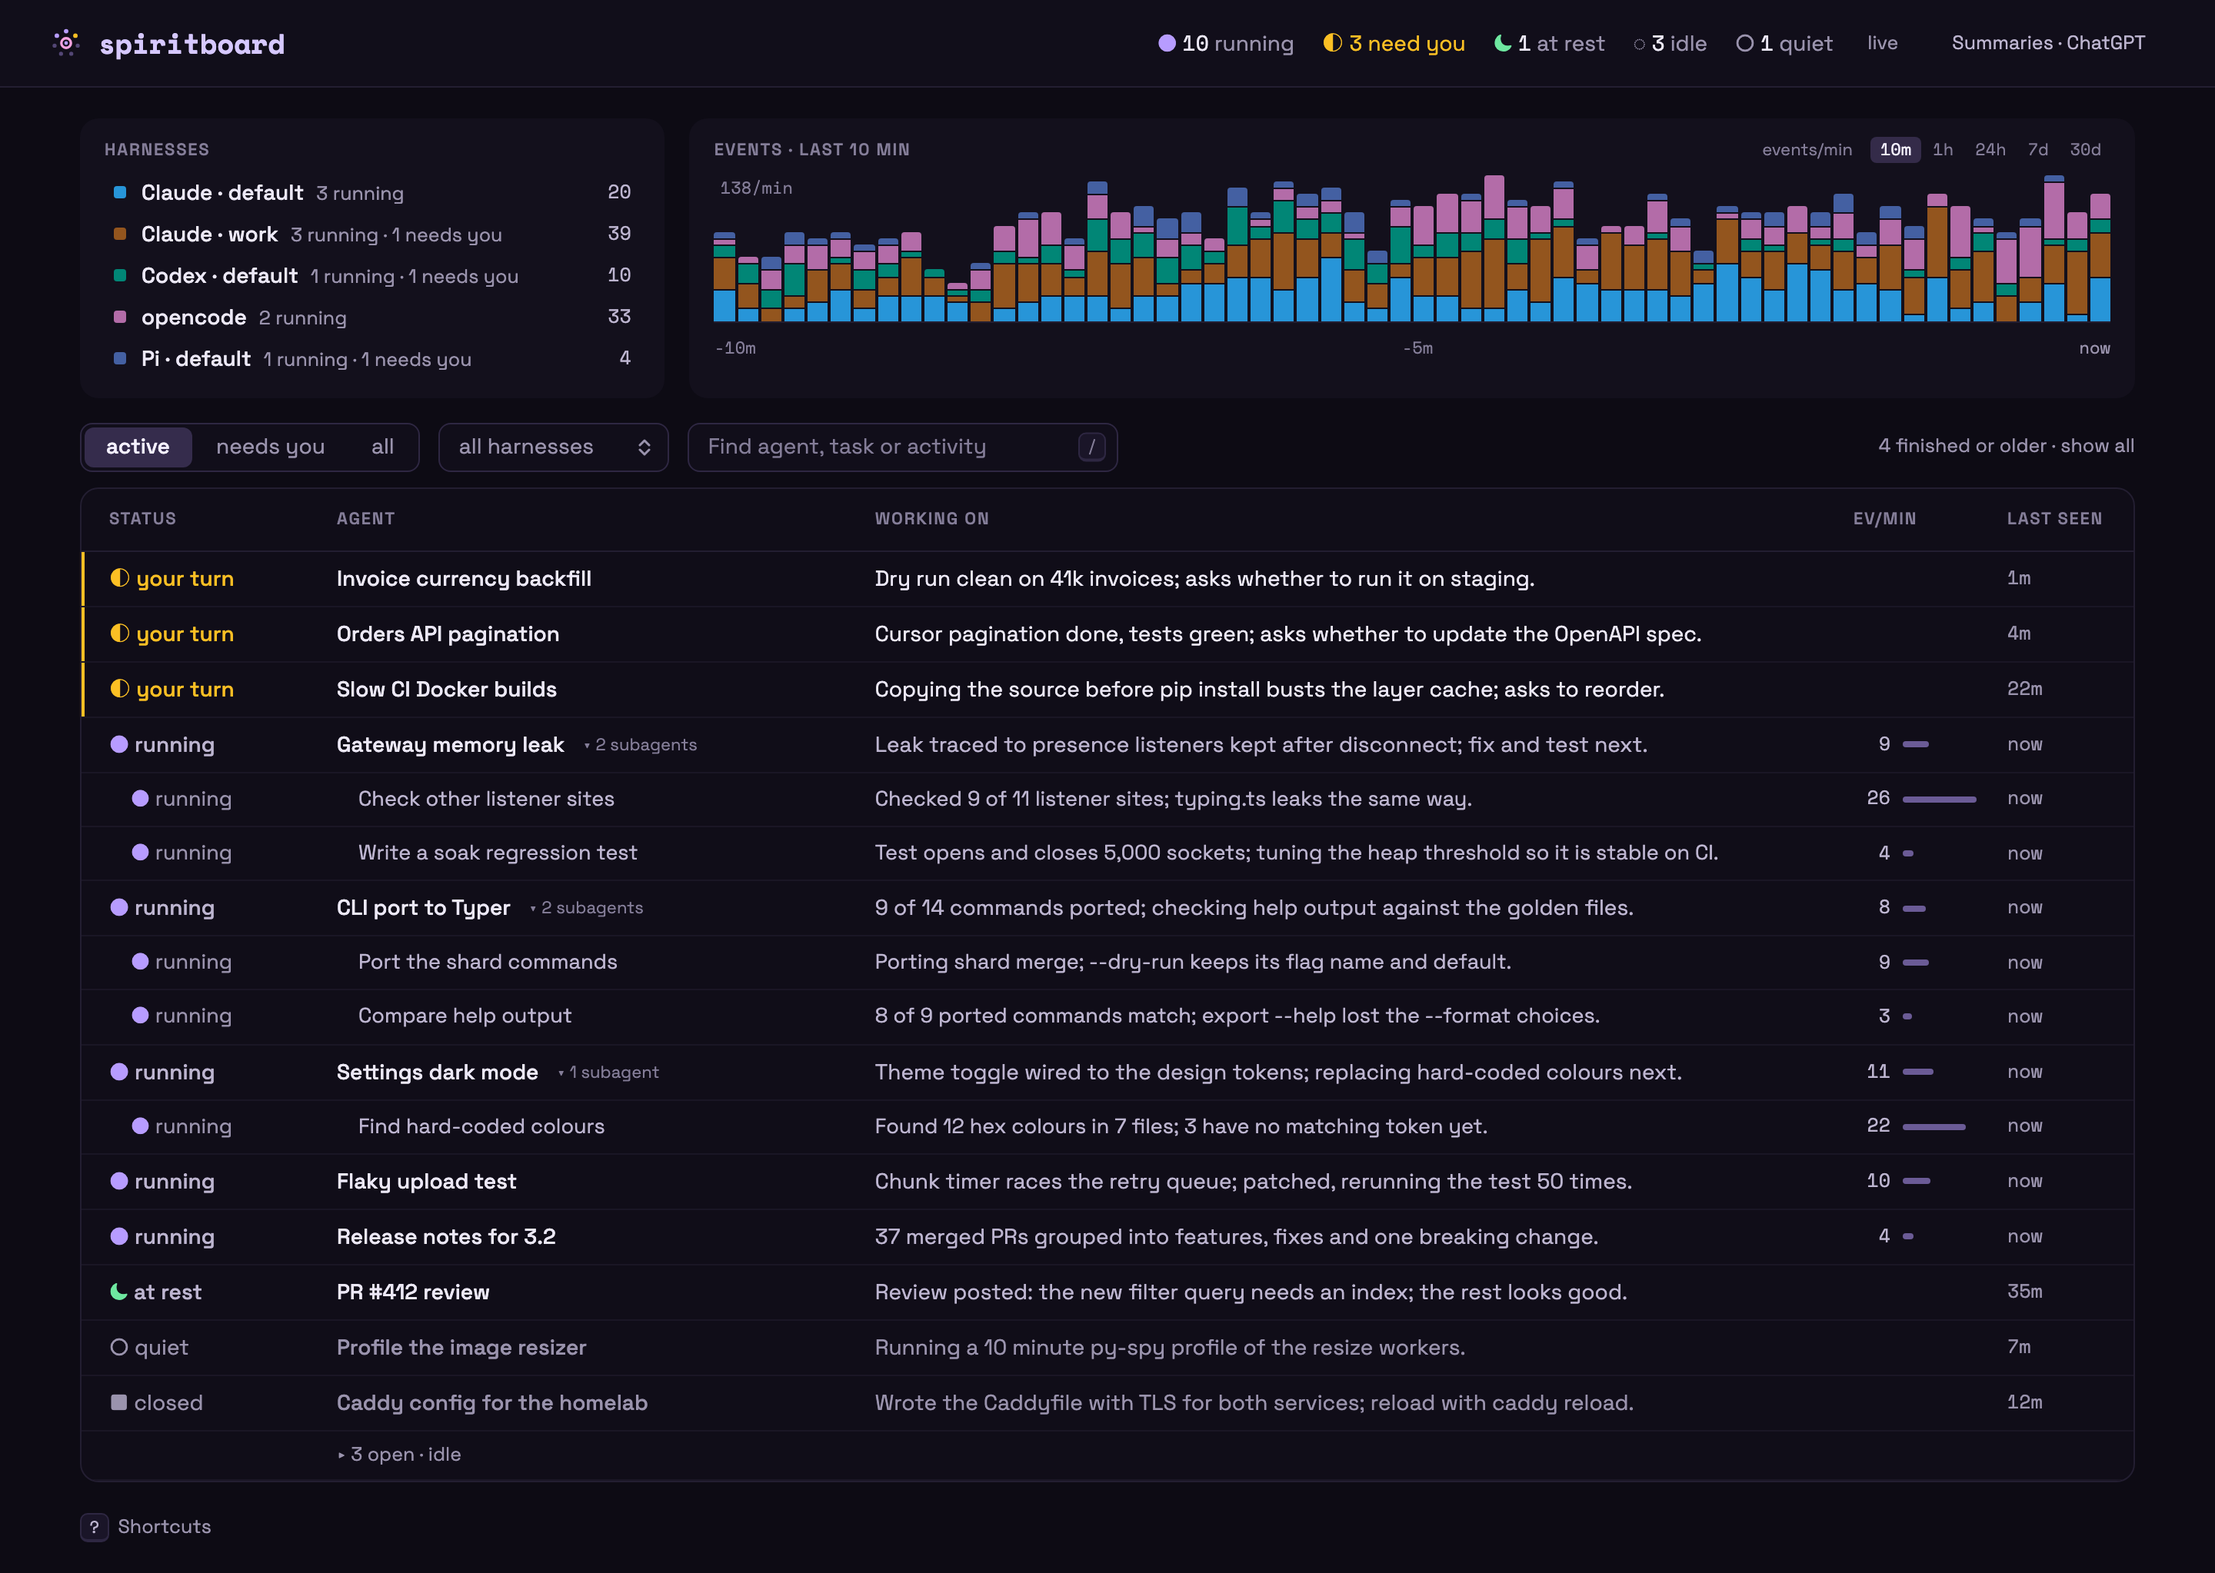
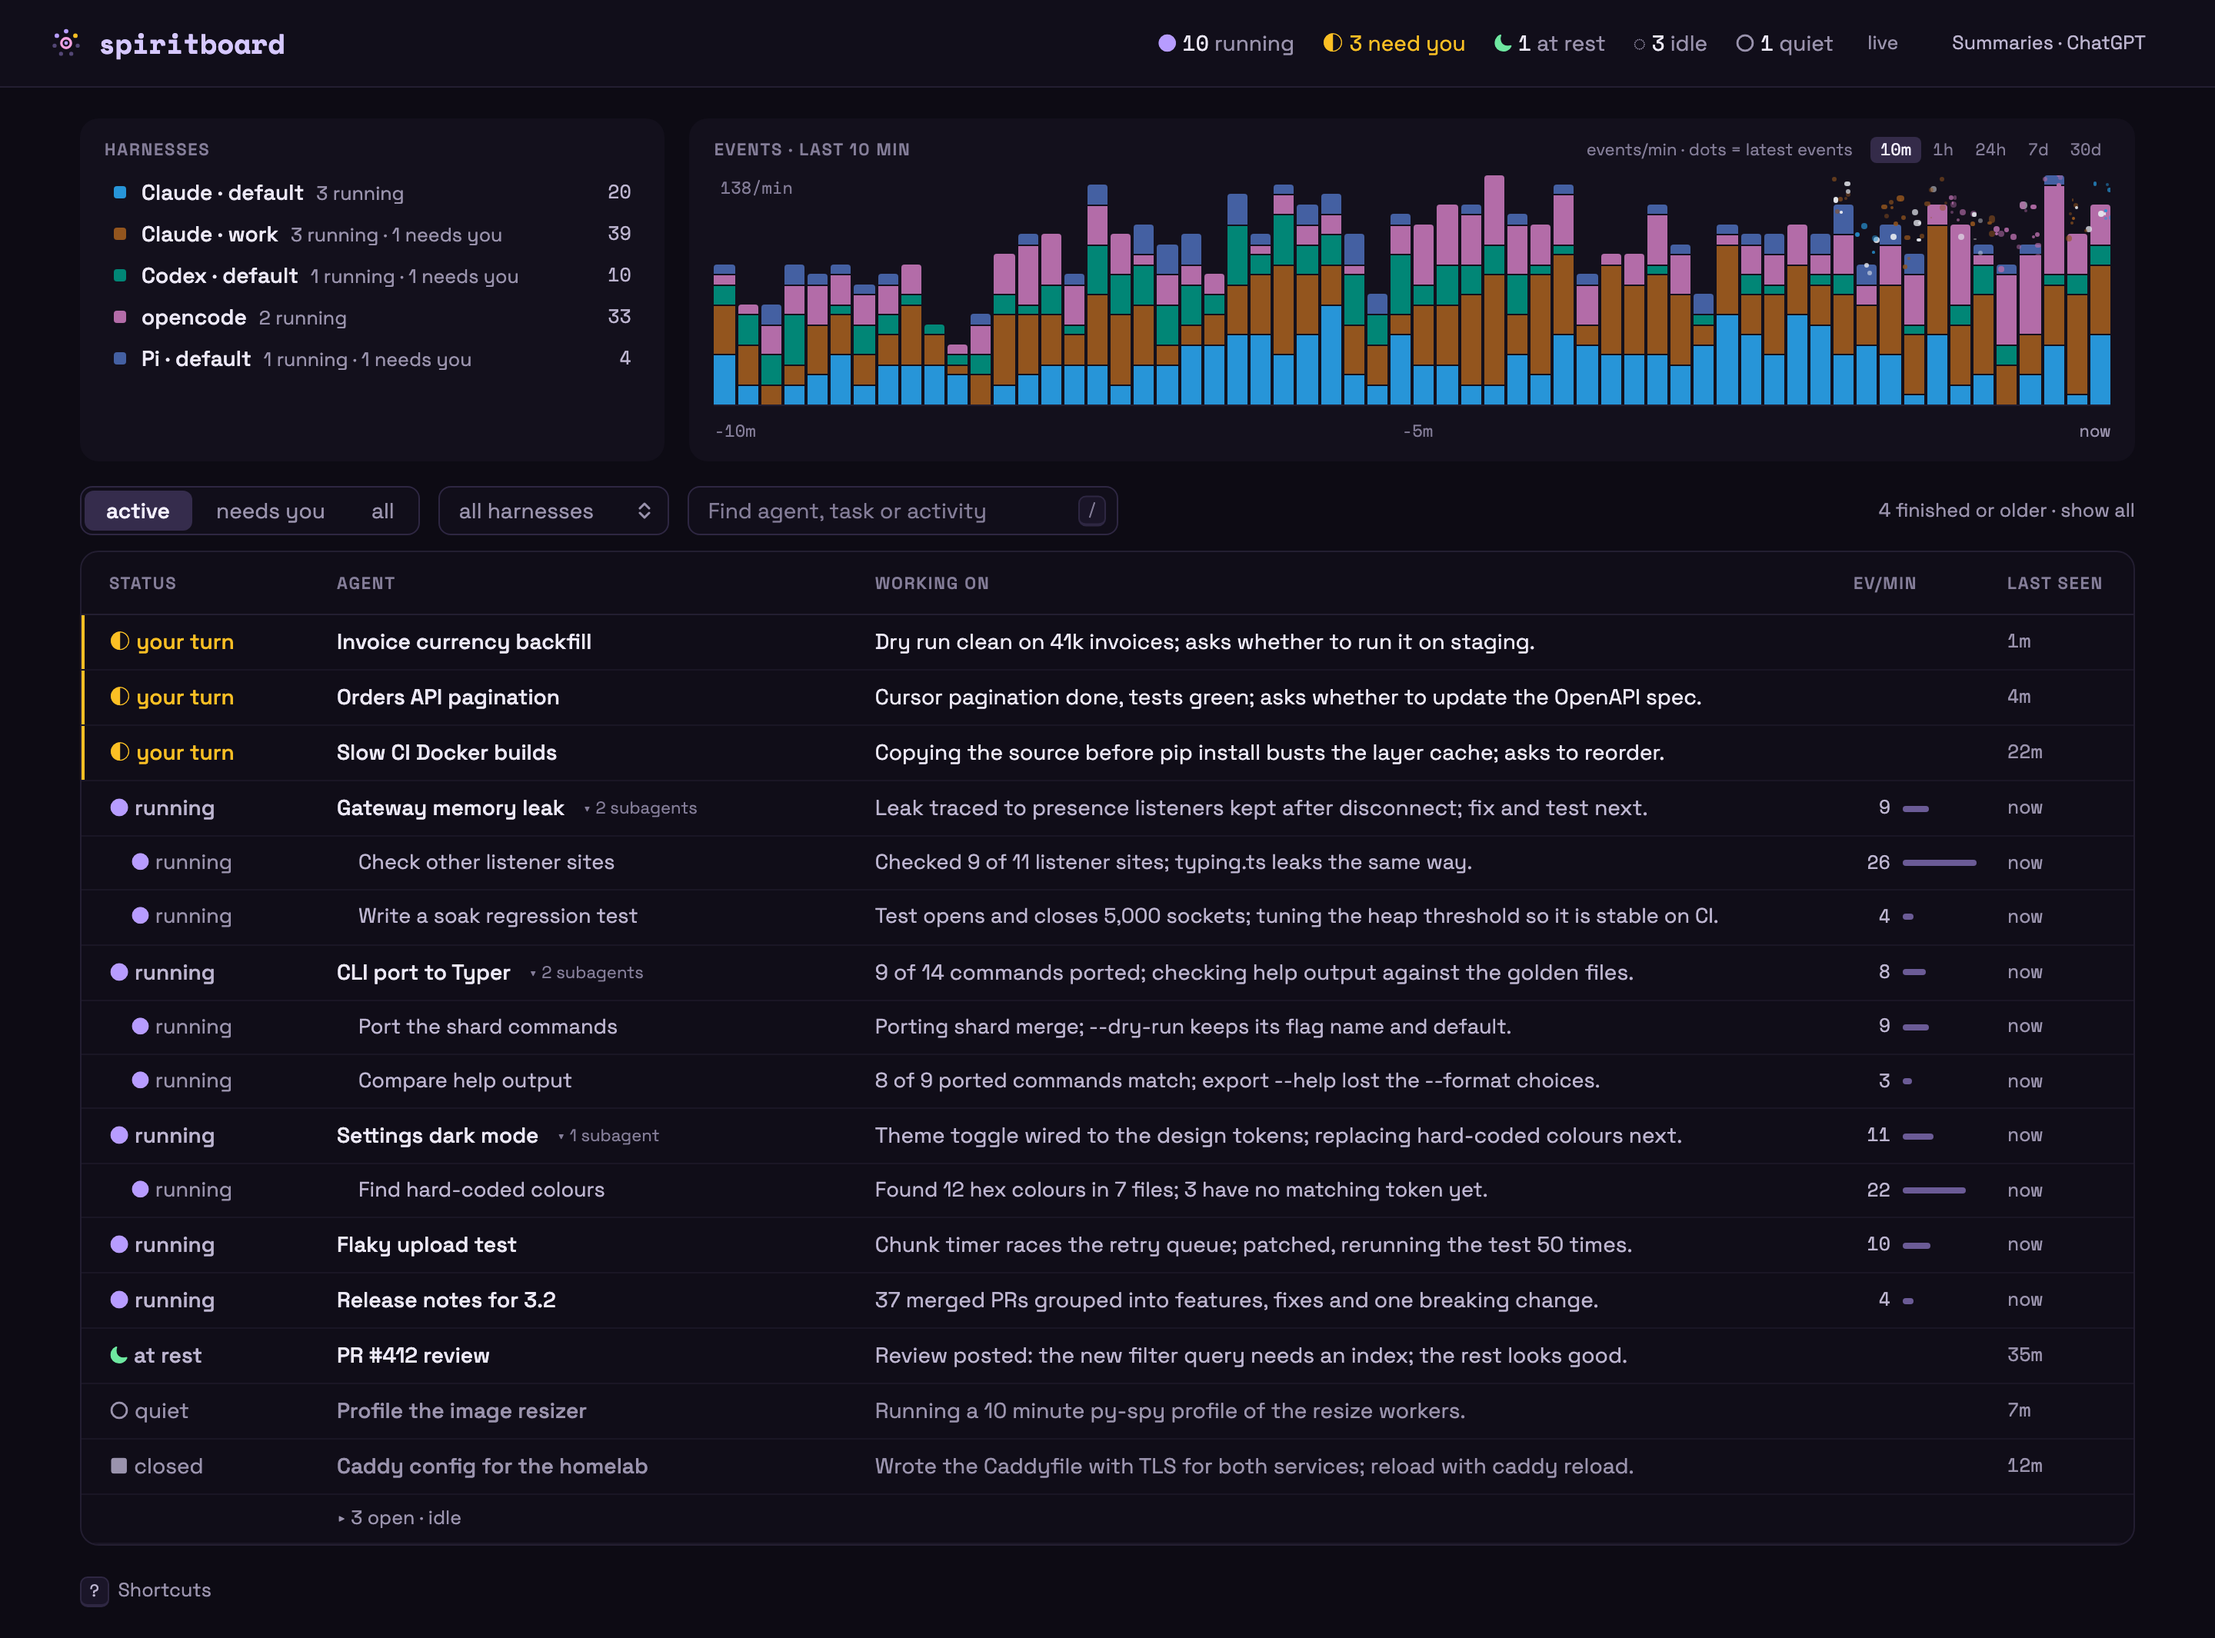
feat: bring back the taller chart and the latest-event dots (#72)

diff --git a/src/spiritboard/static/style.css b/src/spiritboard/static/style.css
@@ -79,13 +79,14 @@ main { max-width: 1400px; margin: 0 auto; padding: 20px 32px; display: flex; fle
 .zoom button { min-height: 0; padding: 0 6px; border: 0; border-radius: var(--r-sm); font-family: var(--mono); font-size: var(--fs-xs); color: var(--dim); }
 .zoom button:hover { color: var(--text); }
 .zoom button[aria-pressed="true"] { background: #b79cff33; color: var(--bright); }
-.flux { position: relative; height: 96px; overflow: hidden; border-bottom: 1px solid var(--line); display: flex; align-items: flex-end; gap: 2px; }
+.flux { position: relative; height: 150px; overflow: hidden; border-bottom: 1px solid var(--line); display: flex; align-items: flex-end; gap: 2px; }
 .flux .col { flex: 1; display: flex; flex-direction: column; min-width: 0; }
 .flux .col { align-self: stretch; justify-content: flex-end; cursor: pointer; }
 .flux .col > span + span { border-top: 1px solid var(--panel); }
 .flux .col > span:first-child { border-radius: 2px 2px 0 0; }
 .flux .col:hover { background: #ffffff0a; }
-.flux .ymax, .flux .marker { pointer-events: none; }
+.flux .dot, .flux .ymax, .flux .marker { pointer-events: none; }
+.flux .dot { position: absolute; border-radius: 50%; }
 .flux .marker { position: absolute; top: 0; bottom: 0; z-index: 1; width: 2px; margin-left: -1px; background: var(--wait); }
 .flux .ymax { position: absolute; left: 4px; top: 0; color: var(--dim); font-family: var(--mono); font-size: var(--fs-xs); }
 .flux .empty { position: absolute; inset: 0; display: grid; place-items: center; color: var(--muted); }
@@ -271,7 +272,7 @@ kbd { font-family: var(--mono); font-size: var(--fs-xs); background: #1a1528; bo
   .harness .name { max-width: none; }
   .flux-panel { flex-direction: row; align-items: center; gap: 10px; }
   .flux-panel .panel-head { order: 1; }
-  .flux-panel h2, #flux-note, .axis, .flux .ymax { display: none; }
+  .flux-panel h2, #flux-note, .axis, .flux .dot, .flux .ymax { display: none; }
   .flux { flex: 1; height: 32px; }
   .flux .col > span + span { border-top: 0; }
   .keys { padding-bottom: 12px; }

diff --git a/src/spiritboard/static/app.js b/src/spiritboard/static/app.js
@@ -360,7 +360,7 @@
     const host = $("flux"); host.replaceChildren();
     const data = chartData(); const count = data.buckets || 60; const bucket = data.bucket_seconds || 10; const scale = 60 / bucket;
     const windowText = ZOOMS[state.zoom][0];
-    $("flux-note").textContent = bucket <= 60 ? "events/min" : `events per ${span(bucket)}`;
+    $("flux-note").textContent = `${bucket <= 60 ? "events/min" : `events per ${span(bucket)}`} · dots = latest events`;
     const byHarness = list.map((h) => {
       const series = new Array(count).fill(0);
       h.runs.forEach((run) => (data.runs?.[run.run_id] || []).forEach((v, i) => { series[i] += v; }));
@@ -383,6 +383,23 @@
       col.addEventListener("click", () => travel(i, data));
       host.append(col);
     });
+    // Deterministic spray per absolute bucket so dots stay put as time advances.
+    const endBucket = Math.floor((time(data.end) || liveNow()) / 1000 / bucket);
+    const noise = (n) => { const x = Math.sin(n * 12.9898) * 43758.5453; return x - Math.floor(x); };
+    for (let i = Math.max(0, count - 12); i < count; i++) {
+      const top = byHarness.reduce((best, h) => h.series[i] > (best?.series[i] || 0) ? h : best, null);
+      const dots = Math.min(15, Math.ceil(totals[i] / 2));
+      for (let j = 0; j < dots; j++) {
+        const seed = (endBucket - (count - 1 - i)) * 31 + j;
+        const dot = node("span", null, "dot"); const size = 1.5 + noise(seed + .3) * 3;
+        dot.style.left = `${(i + noise(seed)) / count * 100}%`;
+        dot.style.bottom = `max(0px, calc(${totals[i] * unit}% + ${(noise(seed + .7) - .3) * 36}px))`;
+        dot.style.width = dot.style.height = `${size}px`;
+        dot.style.background = noise(seed + .9) > .3 && top ? state.colors.get(top.key) : "#e6e9ef";
+        dot.style.opacity = String(.4 + noise(seed + .5) * .6);
+        host.append(dot);
+      }
+    }
     if (state.past) {
       const start = (time(data.end) || liveNow()) - count * bucket * 1000;
       const x = (state.past.at - start) / (count * bucket * 1000);

diff --git a/tests/test_static.py b/tests/test_static.py
@@ -196,6 +196,11 @@ const editor = () => flatten(ids.runs).find(x => x.className === 'name-edit');
  assert.ok(ids.harnesses.textContent.includes('+ 3 idle, in the harness filter'));
  assert.ok(!ids.harnesses.textContent.includes('noisy'));
  assert.ok(ids.flux.children.some(x => x.className === 'col'));
+ // The latest events spray up to 15 dots above each of the last 12 bars.
+ const dots = ids.flux.children.filter(x => x.className === 'dot');
+ assert.equal(dots.length, 20);
+ assert.ok(dots.every(d => parseFloat(d.style.left) >= 80));
+ assert.equal(ids['flux-note'].textContent, 'events/min · dots = latest events');
  assert.ok(ids.flux.attrs['aria-label'].includes('Codex · work'));
  // Spend stays in the tooltip; the header only says summaries are on.
  assert.equal(ids['ai-status'].textContent, 'Summaries');

diff --git a/README.md b/README.md
@@ -14,7 +14,7 @@ waiting for you or gone, and a button that takes you straight to it.
 It only reads what the agents already write to disk. It never starts, steers or
 stops an agent, and nothing leaves your machine unless you turn on summaries.
 
-![Spiritboard showing sixteen agents across Claude Code, Codex, opencode and Pi](https://raw.githubusercontent.com/topppg/spiritboard/062a77d179c2fadc1402a0a91f3ff8bb444ab7f7/docs/dashboard.png)
+![Spiritboard showing sixteen agents across Claude Code, Codex, opencode and Pi](https://raw.githubusercontent.com/topppg/spiritboard/d951c5338d8f996102dffeff99da1e995bc50852/docs/dashboard.png)
 
 <sub>Synthetic data: invented sessions, projects and activity.</sub>
 
@@ -111,9 +111,10 @@ New harnesses plug in as one module each (see [the source guide](https://github.
 
 - **Every harness at once.** Each storage profile (personal and work accounts,
   the default CLI folders, the desktop apps) is a harness with its own colour,
-  live events per minute, and a 10-minute activity chart stacked by harness. The
-  harness list shows the harnesses with something running or drawn in the chart;
-  idle ones stay available in the harness filter.
+  live events per minute, and a 10-minute activity chart stacked by harness,
+  with dots for the latest events. The harness list shows the harnesses with
+  something running or drawn in the chart; idle ones stay available in the
+  harness filter.
 - **Where to put your attention.** Every session has one status:
 
   | Status | Meaning |
